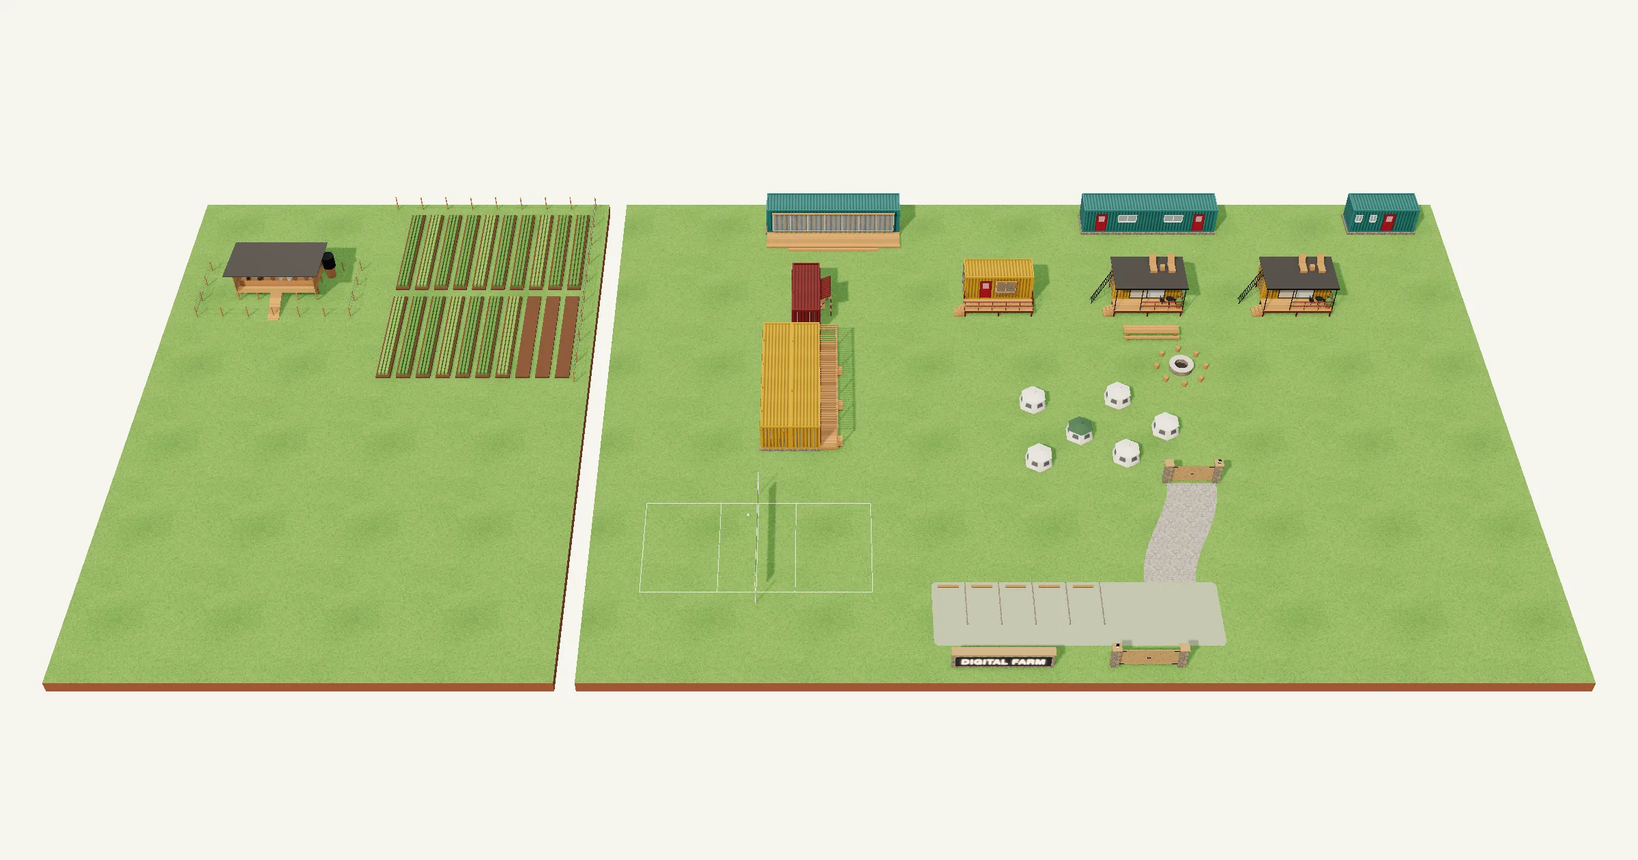
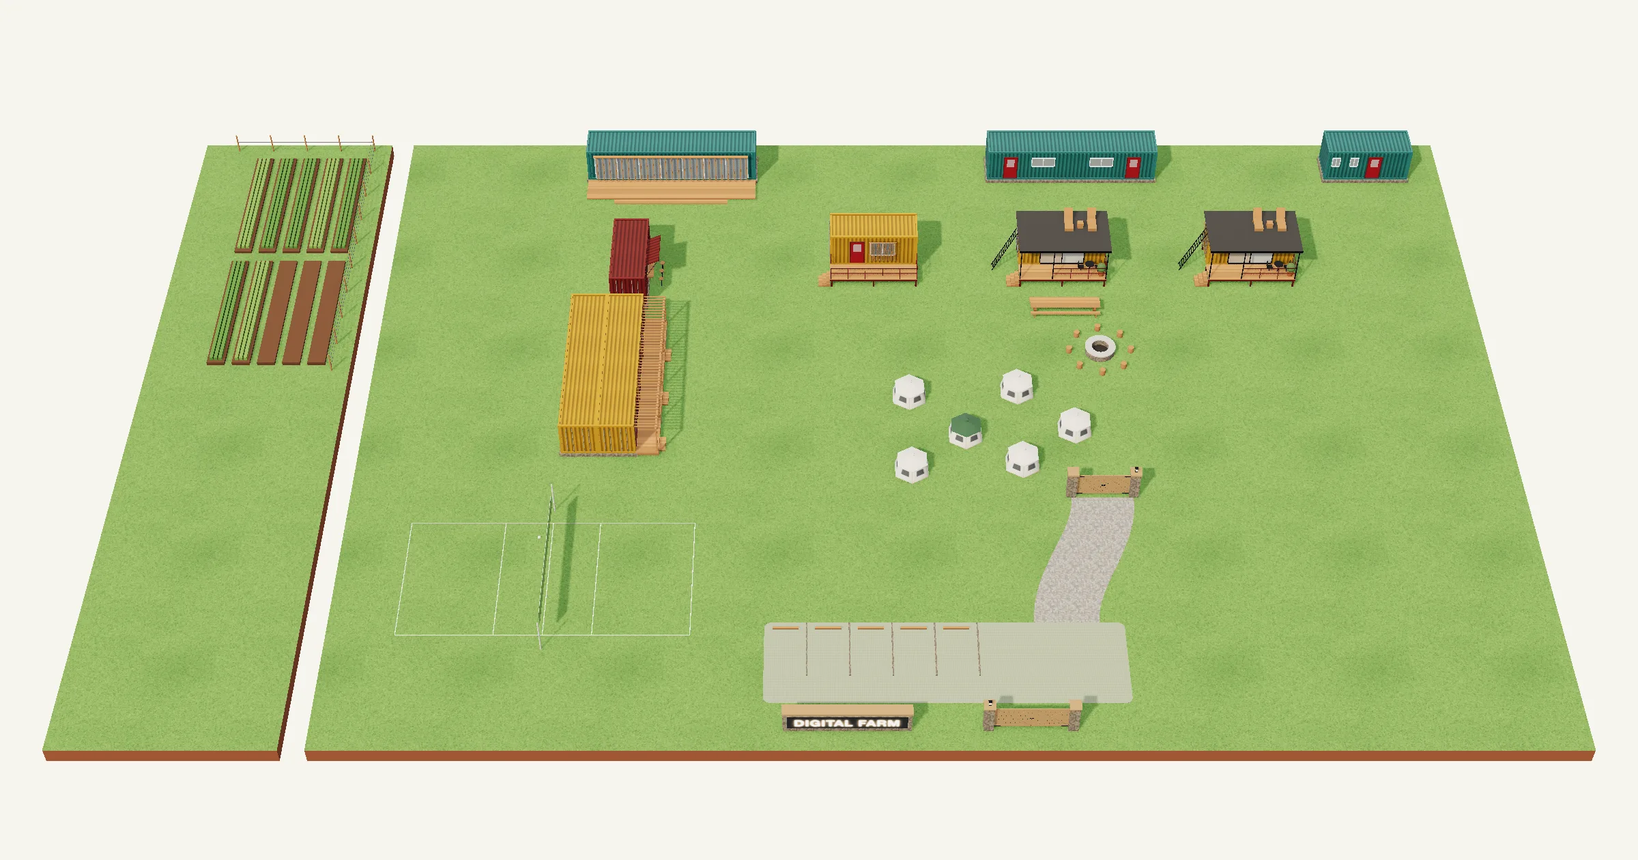
feat(home): homepage shows half the field, the whole farm on /en/farming
The founder: cut the farm area to half the vegetable field, and send the
whole farm (field, nursery, livestock) to /en/farming. The livestock leaves
the homepage 2D and 3D (re-rendered); the arrow at the cut links to
/en/farming, which gains a Livestock section. D-035.

Claude-Session: https://claude.ai/code/session_01S6J7Hj425bwF9AGDTf46mq

diff --git a/scripts/site/render/compound.html b/scripts/site/render/compound.html
@@ -9,8 +9,9 @@
   hexagonal pop-up tents. The studios follow the studio's hero (/en/studio, render/studio-hero.jpg), and the
   sign wall carries DIGITAL FARM in LED letters. Its neighbours stand beside it as the 2D draws them
   (compound.json neighbours), from their own pages' data: the volleyball court (volleyball.json) on the lawn between the guest rooms and the
-  parking, and, on a separate piece of ground past the 2D's break, in one band beside the study room, the vegetable
-  field's nearest beds turned to run west (farming plan.json) and beyond them the livestock house and paddock (livestock.json). Rendered two ways:
+  parking, and, on a separate piece of ground past the 2D's break, in one band beside the study room, the first half
+  of the vegetable field's nearest beds turned to run west (farming plan.json), cut there: the rest of the field,
+  the nursery and the livestock are on /en/farming. Rendered two ways:
 
     ?mode=line  line drawing in the page's ink        -> public/designs/compound/render/compound-line.png
     ?mode=real  paint, timber, stone, sun and shadow  -> public/designs/compound/render/compound-real.webp
@@ -50,8 +51,7 @@ const LINE = Q.get("mode") !== "real"
 const [FW, FH] = [2400, 1260]
 const C = await (await fetch(`/src/components/home/compound.json?${Date.now()}`)).json()
 // the neighbours the 2D draws beside the compound, from their own pages' data (compound.json neighbours)
-const [VB, LV, FP] = await Promise.all(["/src/components/volleyball/volleyball.json", "/src/components/livestock/livestock.json",
-  "/public/designs/farming/data/plan.json"].map(async (u) => (await fetch(`${u}?${Date.now()}`)).json()))
+const [VB, FP] = await Promise.all(["/src/components/volleyball/volleyball.json", "/public/designs/farming/data/plan.json"].map(async (u) => (await fetch(`${u}?${Date.now()}`)).json()))
 const N = C.neighbours
 const INK = "#2b2a26", PAGE = "#f7f5ef" // the farm theme's soil and chalk
 const HC = 2.591 // a container's height
@@ -455,12 +455,13 @@ function group(build, pos, rotY = 0) {
 // ------------------------------------------------------------ the site
 // As the 2D draws it: the compound on its ground, a model base, with no lake, road or trees (D-022).
 // the base reaches 2.5 m past the outermost buildings east and west
-// and past the neighbours: the livestock paddock west; east, the outermost building (the court is inside)
-const MX0 = N.livestock.paddock[0] - 2.5
+// and past the neighbours: the field's cut west; east, the outermost building (the court is inside)
+const FIELD_WEST = N.field.corner[0] - (Math.max(...FP.beds.filter((b) => N.field.blocks.includes(b.block) && Number(b.id.split("-")[1]) <= N.field.beds).map((b) => b.y + b.h)) + N.field.cut - FP.fence[1])
+const MX0 = FIELD_WEST - 2.5
 const MX1 = Math.max(...C.units.map((u) => u.box[2])) + 2.5
 const [MZ0, MZ1] = [-8.4, 45.6]
 // one lawn over the whole base, its top level with the old courtyard lawn: no courtyard outline, as the 2D;
-// the base splits at the 2D's break, where the field and the livestock are drawn close
+// the base splits at the 2D's break, where the field is drawn close
 slab([MX0, MZ0, N.break - 0.8, MZ1], 0.01, -1.0, 1.035, "lawn", { sides: "soil" })
 slab([N.break + 0.8, MZ0, MX1, MZ1], 0.01, -1.0, 1.035, "lawn", { sides: "soil" })
 
@@ -820,44 +821,6 @@ const G = 0.035 // the lawn's top
   }
 }
 
-// The livestock house (/en/livestock), its open side toward the gates: x_c = x + local x, z = y - local y.
-{
-  const [ax, az] = N.livestock.at, h = LV.house, [L, W] = [h.l / 2, h.w / 2], F = h.floor
-  const X = (x) => ax + x, Z = (y) => az - y
-  for (const x of h.posts.x) for (const y of h.posts.y) blk(X(x) - 0.05, Z(y) - 0.05, X(x) + 0.05, Z(y) + 0.05, G, F, "slat")
-  blk(X(-L), Z(-W), X(L), Z(W), F - 0.05, F, "timber")
-  blk(X(-L), Z(-W), X(L), Z(-W) - 0.04, F, F + h.back.h, "timber") // the boarded back wall
-  for (const x of [-L, L - 0.04]) blk(X(x), Z(-W), X(x + 0.04), Z(W), F, F + h.back.h, "timber")
-  const fy = W - h.passage.d
-  blk(X(-L), Z(fy) - 0.02, X(L), Z(fy) + 0.02, F, F + 0.6, "slat") // the pens' front fence: boards, then a rail
-  blk(X(-L), Z(fy) - 0.03, X(L), Z(fy) + 0.03, F + h.front.h - 0.06, F + h.front.h, "slat")
-  for (const p of LV.pens.list.slice(1)) blk(X(p.x0) - 0.02, Z(-W), X(p.x0) + 0.02, Z(fy), F, F + h.front.h, "slat")
-  // the mono-pitch roof, high over the passage and falling to the back
-  const [rf, rb, o] = [F + h.roof.front, F + h.roof.back, h.roof.over], a = Math.atan2(rf - rb, 2 * W)
-  add(new THREE.BoxGeometry(2 * (L + o), 0.04, (2 * (W + o)) / Math.cos(a)), "roofsheet", { pos: [ax, (rf + rb) / 2, az], rot: [a, 0, 0] })
-  const rl = Math.hypot(LV.ramp.l, F)
-  add(new THREE.BoxGeometry(1.0, 0.05, rl), "timber", { pos: [ax, F / 2, Z(W) - LV.ramp.l / 2], rot: [-Math.atan2(F, LV.ramp.l), 0, 0] })
-  cyl(X(LV.tank.x), Z(LV.tank.y), LV.tank.r * 0.8, G, LV.tank.stand, "slat", 8)
-  cyl(X(LV.tank.x), Z(LV.tank.y), LV.tank.r, LV.tank.stand, LV.tank.h, "black", 20)
-  // the herd in their pens (real mode only: at this scale they would only clutter the line drawing)
-  if (!LINE) for (const [kind, list] of [["goat", LV.animals.goats], ["sheep", LV.animals.sheep]]) for (const b of list) {
-    group(() => {
-      blk(-0.32, -0.13, 0.32, 0.13, 0.35, 0.68, kind)
-      blk(0.3, -0.07, 0.48, 0.07, 0.6, 0.82, kind)
-      for (const [lx, lz] of [[-0.25, -0.08], [-0.25, 0.08], [0.22, -0.08], [0.22, 0.08]]) blk(lx - 0.03, lz - 0.03, lx + 0.03, lz + 0.03, 0, 0.36, kind)
-    }, [X(b.x), F, Z(b.y)], THREE.MathUtils.degToRad(b.h))
-  }
-  // the paddock's post-and-wire fence
-  const [p0, q0, p1, q1] = N.livestock.paddock
-  const side = (a, b) => {
-    const len = Math.hypot(b[0] - a[0], b[1] - a[1]), n = Math.ceil(len / 2.5)
-    for (let k = 0; k <= n; k++) cyl(a[0] + ((b[0] - a[0]) * k) / n, a[1] + ((b[1] - a[1]) * k) / n, 0.05, G, 1.2, "slat", 6)
-    for (const y of [0.5, 1.1]) pipe([a[0], y, a[1]], [b[0], y, b[1]], 0.012, "wire")
-  }
-  side([p0, q0], [p1, q0]); side([p1, q0], [p1, q1]); side([p0, q0], [p0, q1])
-  side([p0, q1], [X(-L), q1]); side([X(L), q1], [p1, q1])
-}
-
 // The vegetable field (/en/farming): its blocks nearest the compound, each bed 1.2 x 10 m and 20 cm high, crop rows
 // on the beds that grow this season. Turned a quarter as on the 2D (compound.json): plan.json's y runs west, its x
 // toward the gates. The fence on the two sides toward the compound; the field goes on past the far ones.
@@ -865,14 +828,14 @@ const G = 0.035 // the lawn's top
   const [cx, cz] = N.field.corner, [, top, east] = FP.fence
   const M = (x, y) => [cx - (y - top), cz - (east - x)]
   const box = (xa, ya, xb, yb, y0, y1, name) => blk(...M(xa, ya), ...M(xb, yb), y0, y1, name)
-  const beds = FP.beds.filter((b) => N.field.blocks.includes(b.block))
+  const beds = FP.beds.filter((b) => N.field.blocks.includes(b.block) && Number(b.id.split("-")[1]) <= N.field.beds)
   beds.forEach((b, k) => {
     box(b.x, b.y, b.x + b.w, b.y + b.h, G, G + 0.2, "bed")
     if (b.crop === "rest") return
     for (const r of [0.3, 0.6, 0.9]) box(b.x + 0.25, b.y + r - 0.11, b.x + b.w - 0.25, b.y + r + 0.11, G + 0.2, G + 0.42, k % 3 ? "crop" : "crop2")
   })
   const shown = FP.blocks.filter((b) => N.field.blocks.includes(b.id))
-  const far = Math.max(...shown.map((b) => b.y + b.h)) + N.field.cut, west = Math.min(...shown.map((b) => b.x)) - 0.5
+  const far = Math.max(...beds.map((b) => b.y + b.h)) + N.field.cut, west = Math.min(...shown.map((b) => b.x)) - 0.5
   const fence = (a, b) => {
     const len = Math.hypot(b[0] - a[0], b[1] - a[1]), n = Math.max(1, Math.ceil(len / 2.5))
     for (let k = 0; k <= n; k++) cyl(a[0] + ((b[0] - a[0]) * k) / n, a[1] + ((b[1] - a[1]) * k) / n, 0.05, G, 1.5, "slat", 6)

diff --git a/src/components/home/copy.ts b/src/components/home/copy.ts
@@ -54,8 +54,8 @@ export const copy = {
   plans: {
     title: "2D",
     label:
-      "Plan of the compound, with the study room at the top and the gates at the bottom. At the top, the 40 ft study room on its deck, and beside it two buildings of their own: a 40 ft galley with a long worktop and two sinks, and a 20 ft public bathroom with two toilet rooms, two hand basins and a urinal. Below it, the row of three 20 ft containers on raised decks facing the courtyard: the farm office next to the bar, then two studios. Down the left, the bar and then the guest-room block in one line, their doors onto the veranda and the courtyard lawn: the stone fire pit with stools round it, a long timber table in front of the middle studio, and six small tents on a camping lawn between the guest rooms and the fire pit, ending at the fire. The study room's end is in line with the guest rooms. At the bottom, the inner gate, a rock road down to the green parking, and the outer gate beside the Digital Farm sign wall. On the lawn between the guest rooms and the parking, the volleyball court, 18 by 9 metres inside its 3 metre free zone, its long side across the plan and the net across its middle. To the left, past a break line, the land drawn close in one band from the study room to the first guest room: two blocks of the vegetable field's raised beds behind their fence, turned to run west, and beyond them the livestock house for six goats and four sheep at the top of its paddock. At the left edge an arrow marks where the land goes on, on the master plan. Every name on the plan links to its page.",
-    note: "Illustrative plan: containers drawn to size, layout not surveyed. The field and the livestock are drawn close, and the land goes on past the left edge; the master plan has all of it at its true distances.",
+      "Plan of the compound, with the study room at the top and the gates at the bottom. At the top, the 40 ft study room on its deck, and beside it two buildings of their own: a 40 ft galley with a long worktop and two sinks, and a 20 ft public bathroom with two toilet rooms, two hand basins and a urinal. Below it, the row of three 20 ft containers on raised decks facing the courtyard: the farm office next to the bar, then two studios. Down the left, the bar and then the guest-room block in one line, their doors onto the veranda and the courtyard lawn: the stone fire pit with stools round it, a long timber table in front of the middle studio, and six small tents on a camping lawn between the guest rooms and the fire pit, ending at the fire. The study room's end is in line with the guest rooms. At the bottom, the inner gate, a rock road down to the green parking, and the outer gate beside the Digital Farm sign wall. On the lawn between the guest rooms and the parking, the volleyball court, 18 by 9 metres inside its 3 metre free zone, its long side across the plan and the net across its middle. To the left, past a break line, the land drawn close in one band from the study room to the first guest room: half of the vegetable field's two nearest blocks of raised beds behind their fence, turned to run west and cut there. At the cut an arrow links to the whole farm: the field, the nursery and the livestock. Every name on the plan links to its page.",
+    note: "Illustrative plan: containers drawn to size, layout not surveyed. The field is drawn close and cut at half; the farming page has all of it, with the nursery and the livestock.",
   },
   // Under the 3D: every page the plan links to, with its guide and the printed PDFs (English and Kinyarwanda).
   references: {
@@ -113,8 +113,8 @@ export const copy = {
   },
   model: {
     title: "3D",
-    line: "Line drawing of the compound seen from the front, from high beyond the gates: the gate and the sign wall lettered DIGITAL FARM, the parking and the rock road up to the inner gate; inside, six small tents and the fire pit ringed with stools on the lawn, with the bar and the guest rooms on the left; beyond the long timber table, the office and two studios on raised decks, each studio under a flat roof that reaches over its deck, with a ladder at its end up to two loungers; at the back the study room, the galley and the public bathroom. Between the guest rooms and the parking, the volleyball court marked out on the lawn, its net between two posts. On the left, on its own piece of ground beside the study room, the land drawn close: rows of raised vegetable beds behind a post-and-wire fence, and beyond them the livestock house under its sloping roof, a ramp down into its fenced paddock.",
-    real: "The same view rendered with materials and sunlight: corrugated containers in saffron yellow, oxide red and teal, timber decks with red pipe railings, the two studios after their hero render (dark steel roofs over their decks on slim black posts, glass sliders half open, a steel ladder up to timber loungers, a bistro table and a potted plant), the sign wall's DIGITAL FARM in warm LED letters, hexagonal canvas tents (one with a green fly), the stone fire pit with its concrete cap and log stools, a long timber table, timber gates braced in an X, grass parking and a road of granite setts. Below the guest rooms, white tape lines and a black net on the grass of the volleyball court; on the left, raised beds of dark soil green with crop rows, and the timber livestock house on stilts under a dark iron roof, its water tank at one end and the paddock fenced in posts and wire.",
+    line: "Line drawing of the compound seen from the front, from high beyond the gates: the gate and the sign wall lettered DIGITAL FARM, the parking and the rock road up to the inner gate; inside, six small tents and the fire pit ringed with stools on the lawn, with the bar and the guest rooms on the left; beyond the long timber table, the office and two studios on raised decks, each studio under a flat roof that reaches over its deck, with a ladder at its end up to two loungers; at the back the study room, the galley and the public bathroom. Between the guest rooms and the parking, the volleyball court marked out on the lawn, its net between two posts. On the left, on its own piece of ground beside the study room, the land drawn close: rows of raised vegetable beds behind a post-and-wire fence, cut at half.",
+    real: "The same view rendered with materials and sunlight: corrugated containers in saffron yellow, oxide red and teal, timber decks with red pipe railings, the two studios after their hero render (dark steel roofs over their decks on slim black posts, glass sliders half open, a steel ladder up to timber loungers, a bistro table and a potted plant), the sign wall's DIGITAL FARM in warm LED letters, hexagonal canvas tents (one with a green fly), the stone fire pit with its concrete cap and log stools, a long timber table, timber gates braced in an X, grass parking and a road of granite setts. Below the guest rooms, white tape lines and a black net on the grass of the volleyball court; on the left, raised beds of dark soil green with crop rows behind posts and wire.",
     caption: "Rendered from the design model",
   },
   courtyard: {

diff --git a/src/components/home/compound-plan.tsx b/src/components/home/compound-plan.tsx
@@ -1,7 +1,6 @@
 import type { ReactNode } from "react"
 
 import plan from "../../../public/designs/farming/data/plan.json"
-import livestock from "../livestock/livestock.json"
 import site from "../site/site.json"
 import volleyball from "../volleyball/volleyball.json"
 import compound from "./compound.json"
@@ -34,7 +33,7 @@ const WAY = spreadBy(compound.spread.wayIn)
 // The neighbours are placed after the spread already (compound.json neighbours): only turned top to bottom.
 const N = compound.neighbours
 const T = ([x, y]: Point) => [x, SIZE - y]
-// The frame follows the spread and the neighbours: from the arrow that carries the land on westward to past
+// The frame follows the spread and the neighbours: from the arrow that carries the land on to /en/farming to past
 // the public bathroom, the outermost building east.
 const court = volleyball.court
 const VIEW = [
@@ -402,7 +401,7 @@ function Volleyball() {
 }
 
 // West of the compound, past the break, in the band of land from the study room to the first guest room: the
-// vegetable field's blocks nearest it (/en/farming), each bed 1.2 x 10 m as plan.json lays them, turned a quarter
+// first half of the vegetable field's two blocks nearest it (/en/farming), cut there; each bed 1.2 x 10 m as plan.json lays them, turned a quarter
 // so the field runs west: plan.json's y (toward its far end) runs left, its x (its fence's east side at the top)
 // runs down the page. Its fence on the two sides toward the compound; the field goes on past both break lines.
 function Field() {
@@ -410,8 +409,8 @@ function Field() {
   const [, top, east] = plan.fence
   const F = (x: number, y: number) => [f(fx - (y - top)), f(fy + (east - x))]
   const shown = plan.blocks.filter((b) => N.field.blocks.includes(b.id))
-  const beds = plan.beds.filter((b) => N.field.blocks.includes(b.block))
-  const far = Math.max(...shown.map((b) => b.y + b.h)) + N.field.cut
+  const beds = plan.beds.filter((b) => N.field.blocks.includes(b.block) && Number(b.id.split("-")[1]) <= N.field.beds)
+  const far = Math.max(...beds.map((b) => b.y + b.h)) + N.field.cut
   const west = Math.min(...shown.map((b) => b.x)) - 0.5
   const [ex, ey0] = F(east, top)
   const [wx, ey1] = F(west, far)
@@ -433,8 +432,8 @@ function Field() {
   )
 }
 
-// At the drawing's west edge, the land going on: an arrow pointing out of the drawing, to the master plan,
-// which draws all of it (founder, 2026-10-29).
+// At the field's cut, the land going on: an arrow pointing out of the drawing to /en/farming, which draws the
+// whole field, the nursery and the livestock (founder, 2026-10-29).
 function Continues() {
   const [x, y] = T(N.continues.at)
   const end = x - N.continues.length
@@ -442,45 +441,12 @@ function Continues() {
     <Page href={N.continues.page}>
       <path d={`M${f(x)} ${f(y)}H${f(end)}M${f(end + 0.6)} ${f(y - 0.4)}L${f(end)} ${f(y)}L${f(end + 0.6)} ${f(y + 0.4)}`} {...medium} />
       <text x={f(end)} y={f(y - 1)} style={small}>
-        CONTINUED
+        SEE THE WHOLE FARM
       </text>
       <text x={f(end)} y={f(y + 1.5)} style={{ ...small, fontWeight: 500 }}>
-        MASTER PLAN
+        FIELD · NURSERY · LIVESTOCK
       </text>
     </Page>
-  )
-}
-
-// The livestock house (/en/livestock) at the paddock's top fence: 7.0 x 3.9 m, the pens behind the feed passage,
-// its open side toward the gates, the ramp down into the paddock and the tank at its east end.
-function Livestock() {
-  const { house, pens, ramp, tank, animals } = livestock
-  const [cx, cy] = T(N.livestock.at)
-  const [L, W] = [house.l / 2, house.w / 2]
-  const fence = cy + W - house.passage.d
-  const [px0, py1, px1, py0] = N.livestock.paddock
-  const [, ty] = T([0, py0])
-  const [, by] = T([0, py1])
-  return (
-    <g>
-      <rect {...at([px0, ty, px1, by])} {...thin} strokeDasharray="6 3" />
-      <rect {...at([cx - L - house.roof.over, cy - W - house.roof.over, cx + L + house.roof.over, cy + W + house.roof.over])} {...thin} strokeDasharray="3 3" />
-      <path d={`M${f(cx - L)} ${f(cy + W)}V${f(cy - W)}H${f(cx + L)}V${f(cy + W)}`} {...wall} />
-      <line x1={f(cx - L)} x2={f(cx + L)} y1={f(fence)} y2={f(fence)} {...thin} />
-      {pens.list.slice(1).map((p) => (
-        <line key={p.id} x1={f(cx + p.x0)} x2={f(cx + p.x0)} y1={f(cy - W)} y2={f(fence)} {...thin} />
-      ))}
-      <rect {...at([cx - 0.5, cy + W, cx + 0.5, cy + W + ramp.l])} {...thin} />
-      <circle cx={f(cx + tank.x)} cy={f(cy + tank.y)} r={tank.r} {...thin} />
-      <Page href={N.livestock.page}>
-        <text x={f(cx)} y={f(by + 1.0)} textAnchor="middle" style={label}>
-          LIVESTOCK · {animals.goats.length} GOATS, {animals.sheep.length} SHEEP
-        </text>
-      </Page>
-      <text x={f(px0 + 0.5)} y={f(by - 0.6)} style={small}>
-        PADDOCK
-      </text>
-    </g>
   )
 }
 
@@ -540,11 +506,10 @@ export function CompoundPlan({ title, className }: { title: string; className?: 
       <Bar unit={units.bar} east={B(units.rooms.box)[2]} />
       <GuestRooms unit={units.rooms} />
 
-      {/* The neighbours, drawn close: the volleyball court on the lawn; past the break, the field and the livestock */}
+      {/* The neighbours, drawn close: the volleyball court on the lawn; past the break, half the field and the way to the rest */}
       <Volleyball />
       <Break />
       <Field />
-      <Livestock />
       <Continues />
 
       {/* The courtyard: no outline, only its name and the stone fire pit */}

diff --git a/src/app/en/farming/page.tsx b/src/app/en/farming/page.tsx
@@ -6,6 +6,7 @@ import { Button } from "@/components/ui/button"
 import { BuildUp } from "@/components/docs/build-up"
 import { ItemRail, type RailItem } from "@/components/docs/item-rail"
 import { FarmingPlan } from "@/components/farming/farming-plan"
+import { LivestockPlan } from "@/components/livestock/livestock-plan"
 import plan from "../../../../public/designs/farming/data/plan.json"
 import topPieces from "../../../../public/designs/farming/render/top-pieces.json"
 
@@ -73,6 +74,22 @@ export default function FarmingPage() {
           <h2 className="text-3xl font-semibold tracking-tight">2D</h2>
           <div className="mt-6 flex min-h-0 flex-1 items-center justify-center">
             <FarmingPlan title={`Plan: ${bedsWide} raised beds 1.2 by 10 m in blocks of ten inside a fence, ${plan.bedsNeeded} of them planted for the galley and the rest resting or grown for sale, a 2 m main path from the gate on the garden walk to the galley, and the nursery's shade house beside the field.`}
+              className="h-auto w-full lg:h-full lg:w-auto" />
+          </div>
+        </div>
+      </section>
+
+      {/* Livestock: the homepage's 2D shows half the field and sends "the whole farm" here (D-035), so the farm's
+          other land use is drawn here too, the house's plan from /en/livestock, with a link to its page. */}
+      <section id="livestock">
+        <div className="flex flex-col px-4 pt-10 pb-6 md:px-10 lg:h-svh lg:min-h-[560px]">
+          <div className="flex flex-wrap items-baseline justify-between gap-4">
+            <h2 className="text-3xl font-semibold tracking-tight">Livestock</h2>
+            <Link href="/en/livestock" className="text-sm underline underline-offset-4">The livestock page</Link>
+          </div>
+          <p className="text-muted-foreground mt-3 max-w-2xl">Six goats and four sheep in one raised house at the top of its paddock, beyond the field.</p>
+          <div className="mt-6 flex min-h-0 flex-1 items-center justify-center">
+            <LivestockPlan title="Plan of the livestock house: a raised house 7,000 by 3,900 mm under an overhanging roof; a goat pen for 6 goats, a sheep pen for 4 sheep, a kidding pen and a feed store behind a feed passage, a ramp down at the west end and a tank at the back east corner."
               className="h-auto w-full lg:h-full lg:w-auto" />
           </div>
         </div>

diff --git a/study/execution/decision-log.md b/study/execution/decision-log.md
@@ -132,3 +132,6 @@ Context: the founder asked for the volleyball court, the livestock and the farmi
 
 **D-034 · 2026-10-29 · On the homepage 2D and 3D the land runs west in one band beside the study room and goes on past the drawing, and the volleyball court moves between the guest rooms and the parking.**
 Context: the founder said the field and the livestock lie horizontally, not stacked up the page: the land starts level with the study room and reaches to the first guest room, and goes on further than the drawing can hold. He placed the court between the guest rooms and the parking. Decision: `compound.json` `neighbours` turns the field a quarter (its beds stand upright and its blocks run west) and sets the livestock beyond it in the same band; an arrow at the drawing's west edge, "continued", links to the master plan, which draws all of it. The court turns so its long side runs east-west on the lawn below the guest rooms, left of the parking. The break line shortens to the band. The 3D reads the same numbers and is re-rendered. The hero's button is now "Watch film" (the orbit clip of 2026-10-25, full screen), and the homepage header is a two-line hamburger opening the menu full screen. Open: whether the land's band matches the survey; the court's real place and orientation. Revisit with the survey.
+
+**D-035 · 2026-10-29 · The homepage shows half the vegetable field and sends "the whole farm" to /en/farming, which now carries the livestock too.**
+Context: the founder asked to cut the farm area on the homepage to half the vegetable field, with a link to /farming for the whole farm: the full field, the nursery and the livestock. Decision: `compound.json` `neighbours.field.beds` keeps the first 5 of each shown block's 10 beds; the livestock leaves the homepage 2D and 3D; the arrow at the cut reads "See the whole farm · field · nursery · livestock" and links to /en/farming, which adds a Livestock section (the house's 2D, a link to /en/livestock). Supersedes D-034's arrow to the master plan.
